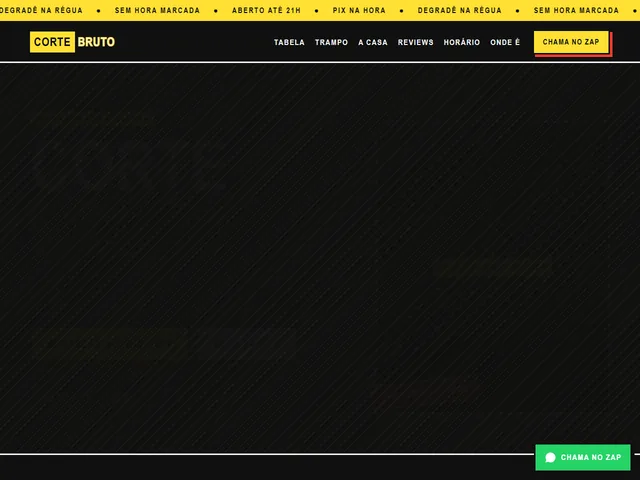
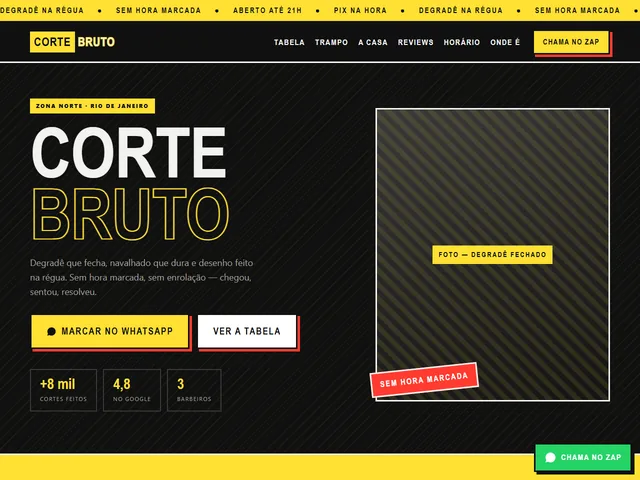
Regera a captura do Corte Bruto, que estava no meio do fade
A captura do Simples 1 de barbearia pegou a pagina antes das secoes
terminarem de aparecer. O titulo "CORTE BRUTO", o texto, os botoes e a foto
ficaram quase invisiveis no preto -- so apareciam a faixa rolante, o
cabecalho e o botao do WhatsApp, que nao entram na animacao de entrada.
Quem chegava no passo 3 via um cartao praticamente vazio.

E o mesmo problema que apareceu no Buffet Girassol. As capturas de
barbearia, beleza, cabeleireiro e servicos-tecnicos foram feitas ANTES de
eu descobrir a flag --force-prefers-reduced-motion, entao regerei as 18 e
comparei pixel a pixel com as antigas: so a do Corte Bruto mudou de
verdade (diferenca media 32,9 e o arquivo dobrou, porque o conteudo
apareceu). As outras 17 ficaram abaixo de 1,5, que e ruido de recompressao,
e foram restauradas para o commit nao encher de arquivo igual.

DE QUEBRA, UMA ARMADILHA DE CACHE: a captura era servida sem versao na
URL. Regerar mantendo o mesmo nome de arquivo nao adianta para quem ja
visitou -- o navegador continua entregando a imagem velha. Agora o src sai
com ?v= vindo de window.VERSAO_PREVIAS, que comeca em 2. SUBA ESSE NUMERO
sempre que regerar qualquer captura, mesmo que uma so.

pedido.js sobe para v=3 e modelos.js para v=9.

diff --git a/pedido/js/pedido.js b/pedido/js/pedido.js
@@ -184,8 +184,14 @@
      página embutida: três páginas dentro de janelas fariam o celular do
      visitante carregar quatro sites de uma vez para escolher um. */
   function previa(pagina) {
+    /* O ?v= na captura tem o mesmo motivo do ?v= dos scripts: o navegador
+       guarda imagem por muito tempo. Quando uma captura \u00e9 regerada com o
+       mesmo nome de arquivo, quem j\u00e1 visitou continuaria vendo a antiga \u2014
+       foi o que aconteceu com a do Corte Bruto. Suba window.VERSAO_PREVIAS
+       no modelos.js sempre que regerar qualquer captura. */
     return '<img class="modelo-foto" src="' +
-             window.BASE_PREVIAS + pagina.imagem + '"' +
+             window.BASE_PREVIAS + pagina.imagem +
+             '?v=' + (window.VERSAO_PREVIAS || 1) + '"' +
            ' width="640" height="480" loading="lazy" decoding="async"' +
            ' alt="Pr\u00e9via da p\u00e1gina: ' + pagina.bom_para.toLowerCase() + '">';
   }

diff --git a/pedido/js/modelos.js b/pedido/js/modelos.js
@@ -125,6 +125,12 @@ window.BASE_MODELOS = '../modelos/';
 /* Pasta das capturas usadas nos cartões. */
 window.BASE_PREVIAS = '../assets/img/modelos/';
 
+/* Versão das capturas. O navegador guarda imagem por muito tempo: se você
+   regera uma captura mantendo o mesmo nome de arquivo, quem já visitou
+   continua vendo a antiga. SUBA ESTE NÚMERO sempre que regerar qualquer
+   captura, mesmo que só uma. */
+window.VERSAO_PREVIAS = 2;
+
 window.CONJUNTOS = [
   {
     id: 'servicos-tecnicos',

diff --git a/pedido/index.html b/pedido/index.html
@@ -311,7 +311,7 @@
 <!-- Só o modelos.js subiu para v=3, porque foi o único que mudou (entrou o
      conjunto do ramo beleza). O pedido.js continua em v=2 de propósito: sem
      alteração, não há motivo para fazer todo mundo baixar de novo. -->
-<script src="js/modelos.js?v=8"></script>
-<script src="js/pedido.js?v=2"></script>
+<script src="js/modelos.js?v=9"></script>
+<script src="js/pedido.js?v=3"></script>
 </body>
 </html>
